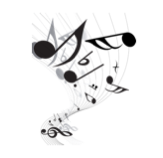
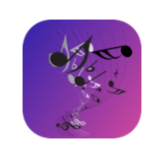
update png

diff --git a/index.html b/index.html
@@ -449,7 +449,7 @@
             <div class="mySlidesfade">
                 <div href="numbertext">
                 </div>
-                <a href="https://github.com/chris1111/Carillon-AppleALC-Version"><img src="https://user-images.githubusercontent.com/6248794/217688276-0bd39458-5039-453e-a702-3cdb428b6b0e.png" style="width:60%"><div><p style="color:DodgerBlue;"></p></div></a>
+                <a href="https://github.com/chris1111/Carillon-AppleALC-Version"><img src="https://user-images.githubusercontent.com/6248794/217970334-470bbb2b-aaa4-4346-8967-6649ddbebe6d.png" style="width:60%"><div><p style="color:DodgerBlue;"></p></div></a>
                 <br>
                 <div class="text" style="color:DodgerBlue;">Carillon-AppleALC-Version</div>
             </div>
